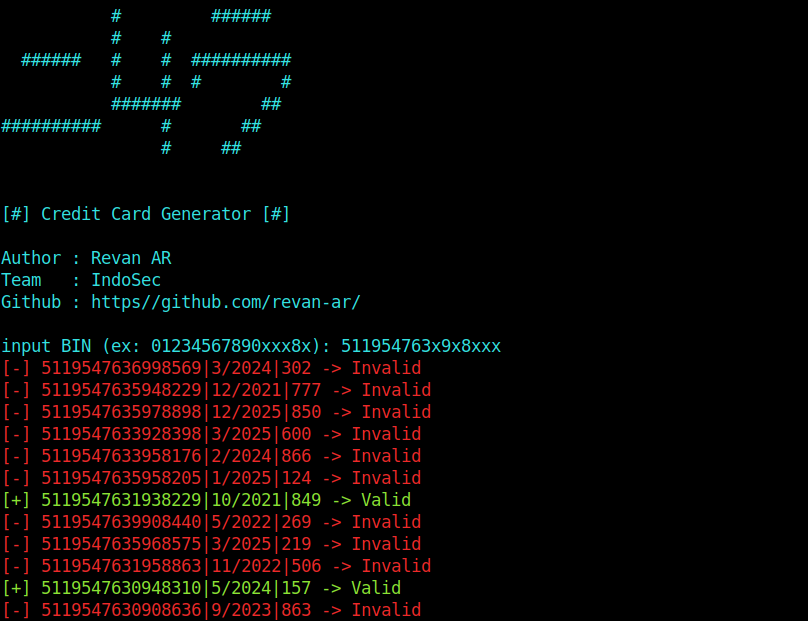
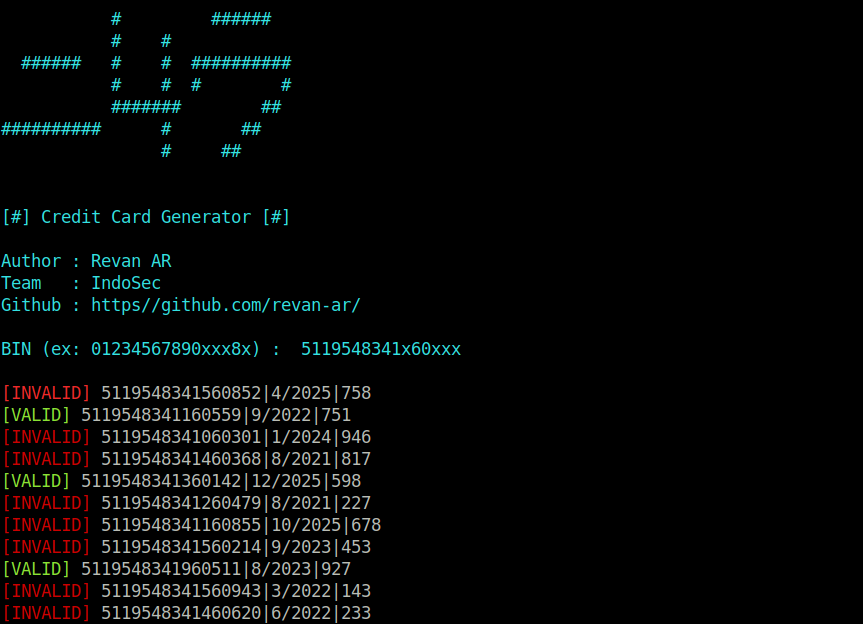
Add example image, Edit extrap.php

diff --git a/extrap.php b/extrap.php
@@ -23,10 +23,9 @@ sleep(2);
 echo $banner;
 sleep(2);
 
-echo "input BIN (ex: 01234567890xxx8x): ";
+echo "BIN (ex: 01234567890xxx8x) : ";
 $a = trim(fgets(STDIN));
-
-$nomor = 1;
+echo "\n";
 while(1){
 
     $cvv = rand(111, 999);
@@ -54,9 +53,9 @@ while(1){
     $response = json_decode($exe);
     
     if($response->error != null){
-        echo "\e[31m[-] ".$card."|".$month."/".$year."|".$cvv." -> Invalid\n";
+        echo "\e[31m[INVALID] \e[00m".$card."|".$month."/".$year."|".$cvv."\n";
     }else{
-        echo "\e[92m[+] ".$card."|".$month."/".$year."|".$cvv." -> Valid\n";
+        echo "\e[92m[VALID] \e[00m".$card."|".$month."/".$year."|".$cvv."\n";
         $o = fopen("validcc.txt", 'a');
         fwrite($o, $card."|".$month."/".$year."|".$cvv."\n");
         fclose($o);
